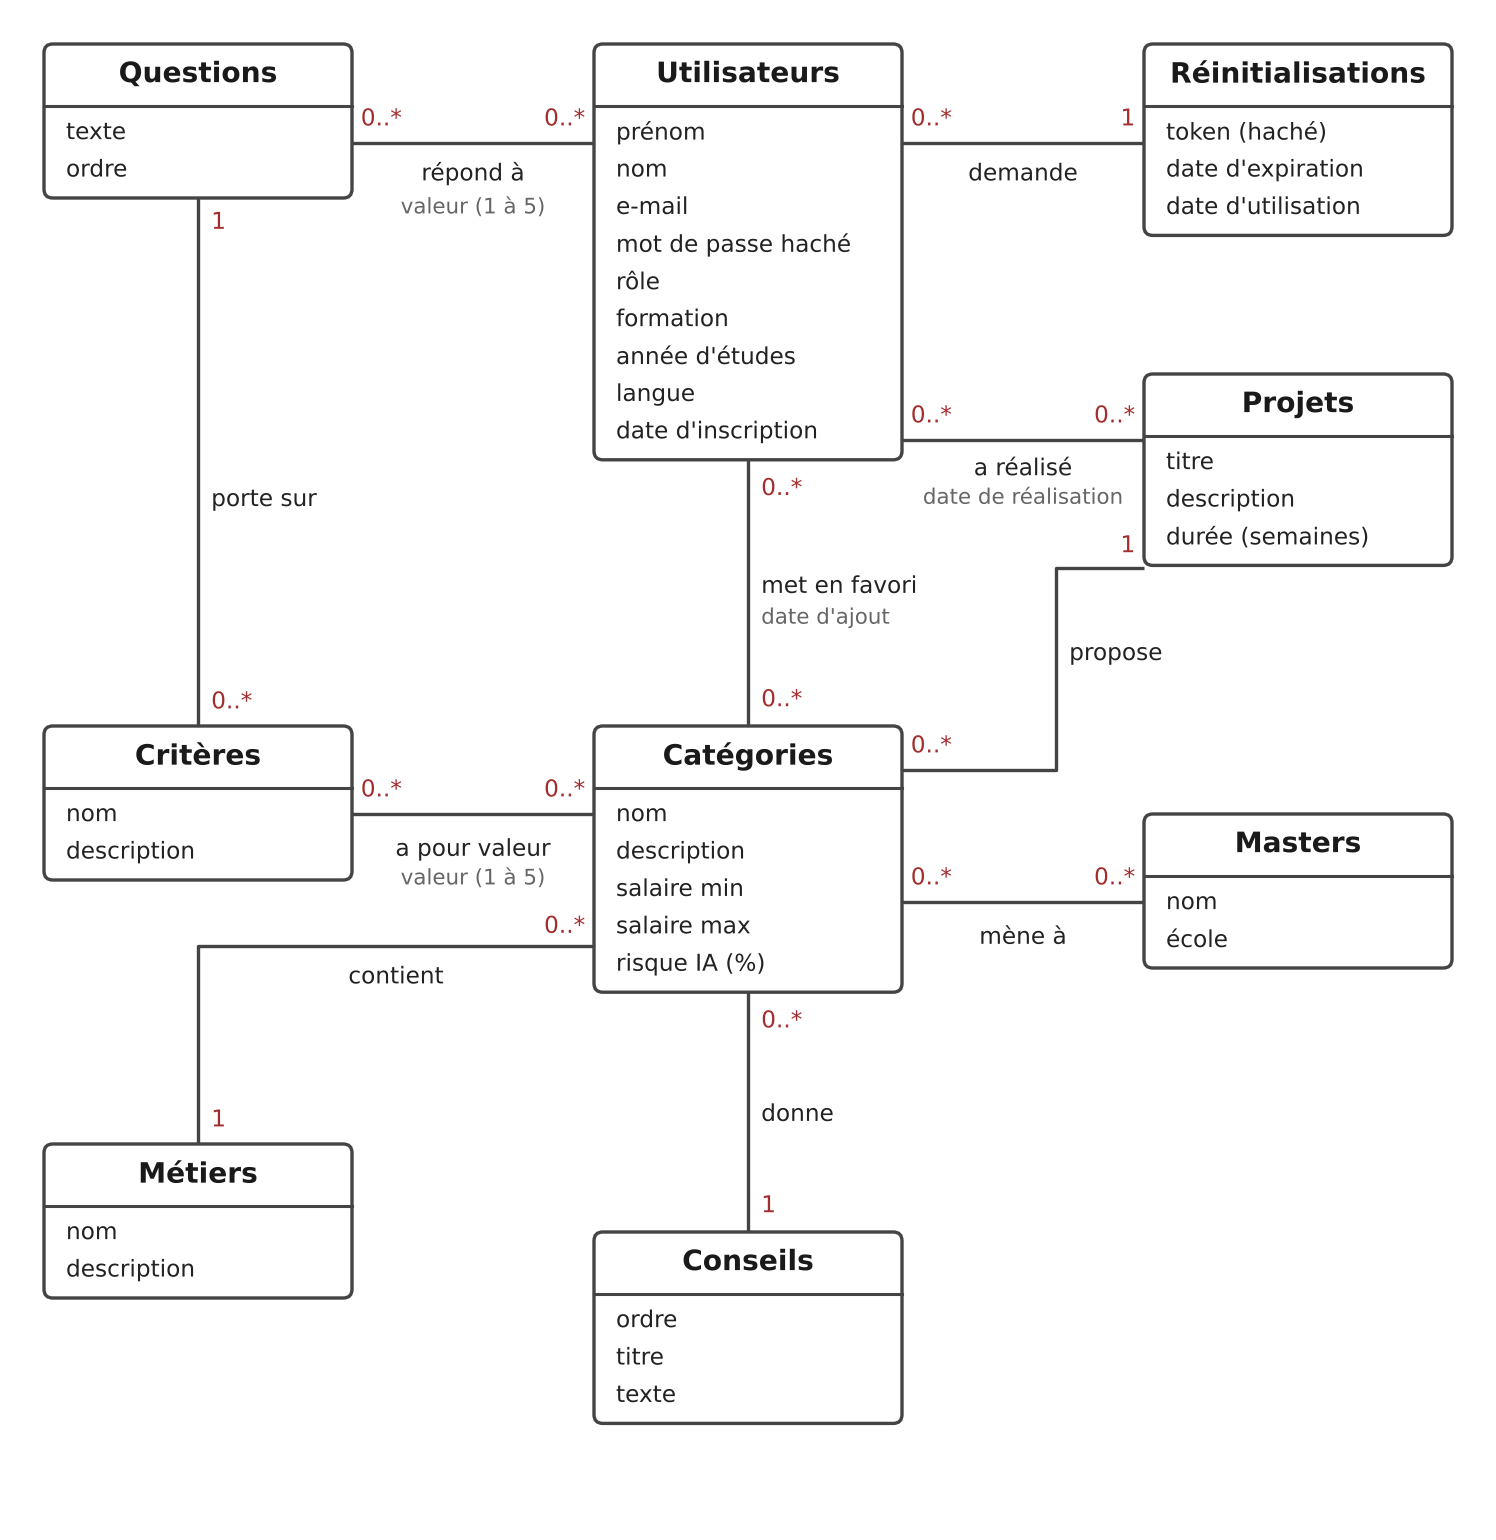
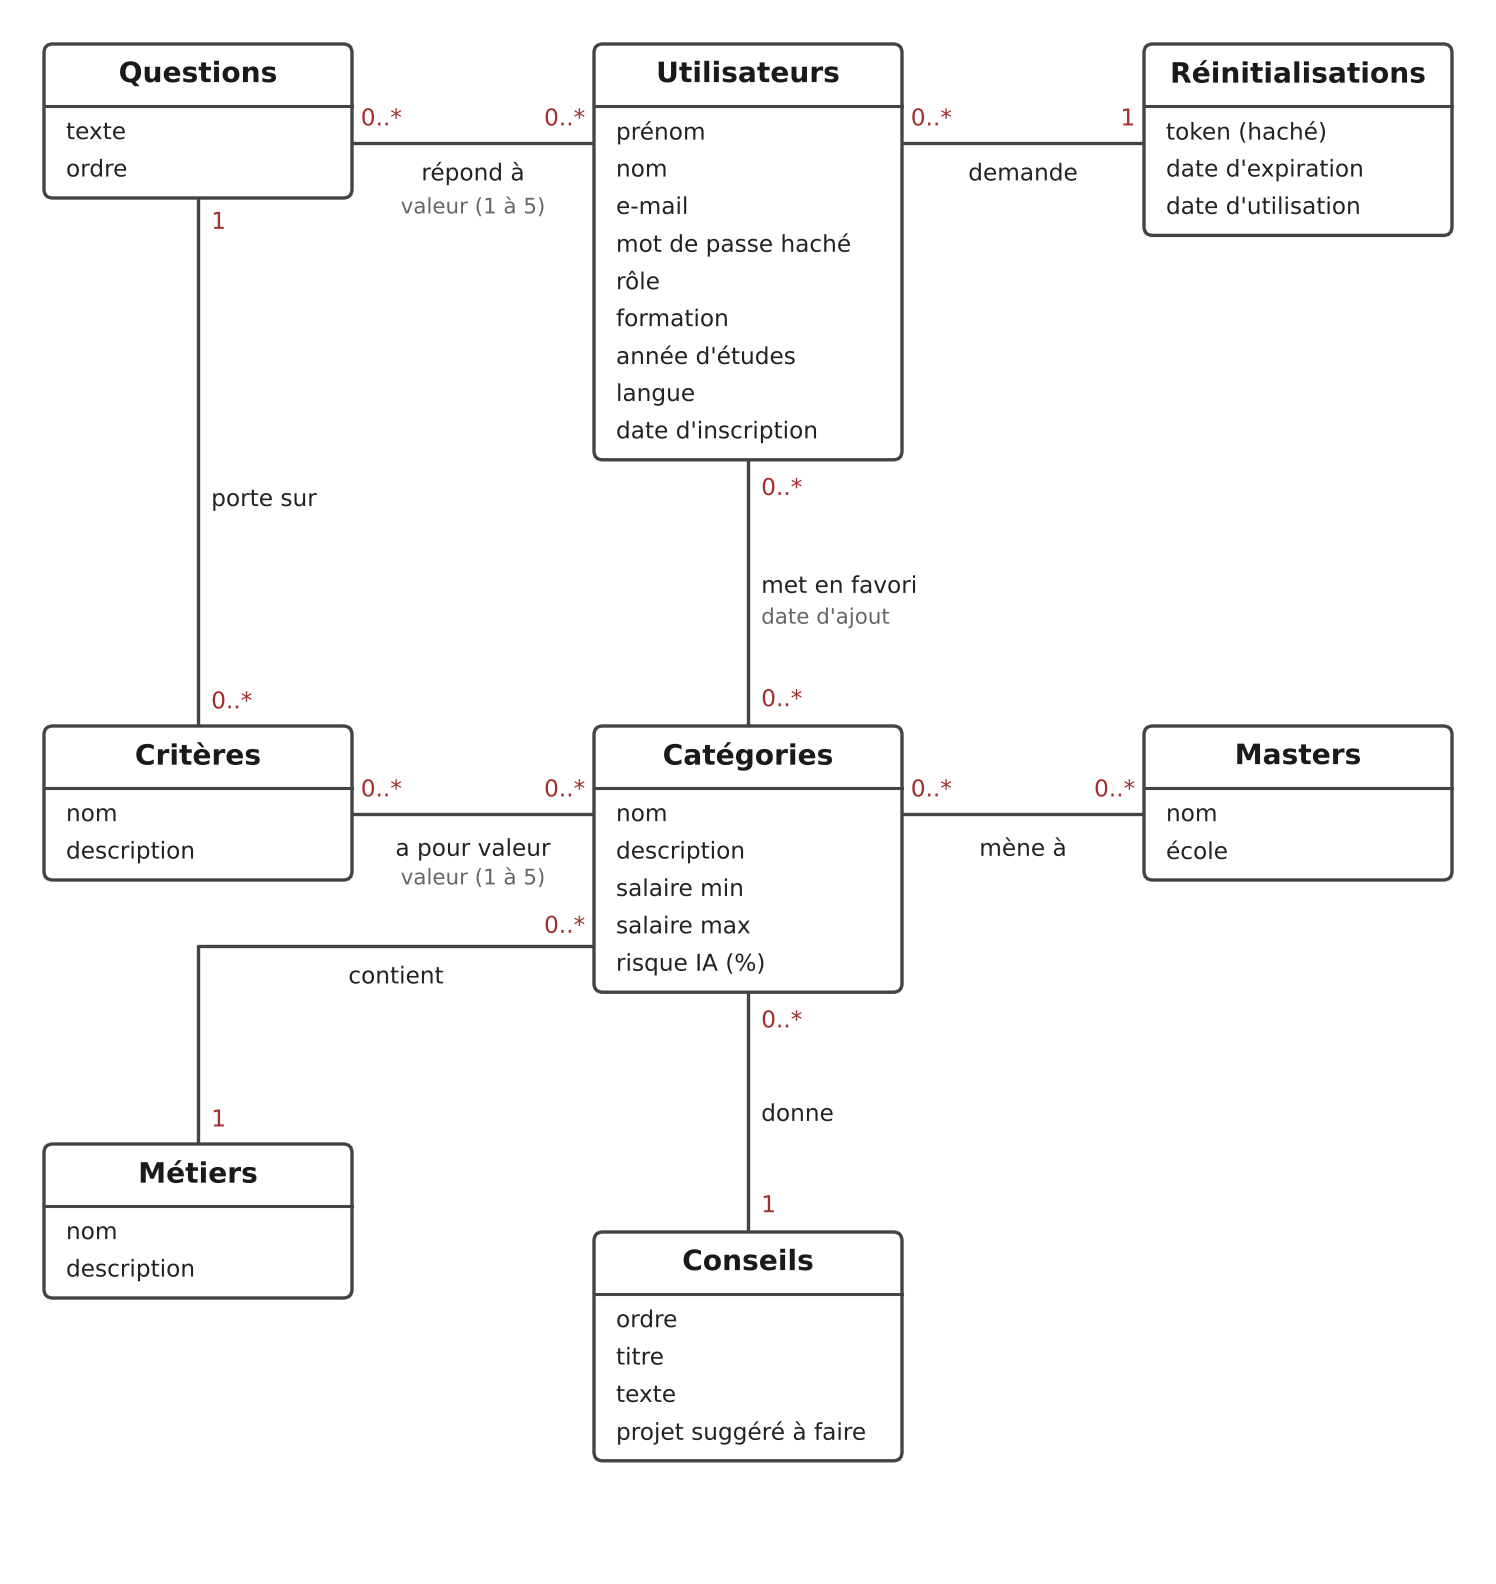
nouveau mcd-mld-mpd

diff --git a/src/public/index.php b/src/public/index.php
@@ -43,7 +43,7 @@ foreach ($tables as $table) {
 
     <p>La connexion à la base de données fonctionne ✅</p>
 
-    <h2>Tables de la base « <?= htmlspecialchars(DB_NAME) ?> » : <?= count($tables) ?> (14 attendues)</h2>
+    <h2>Tables de la base « <?= htmlspecialchars(DB_NAME) ?> » : <?= count($tables) ?> (12 attendues)</h2>
 
     <ul>
         <?php foreach ($tables as $table) { ?>
